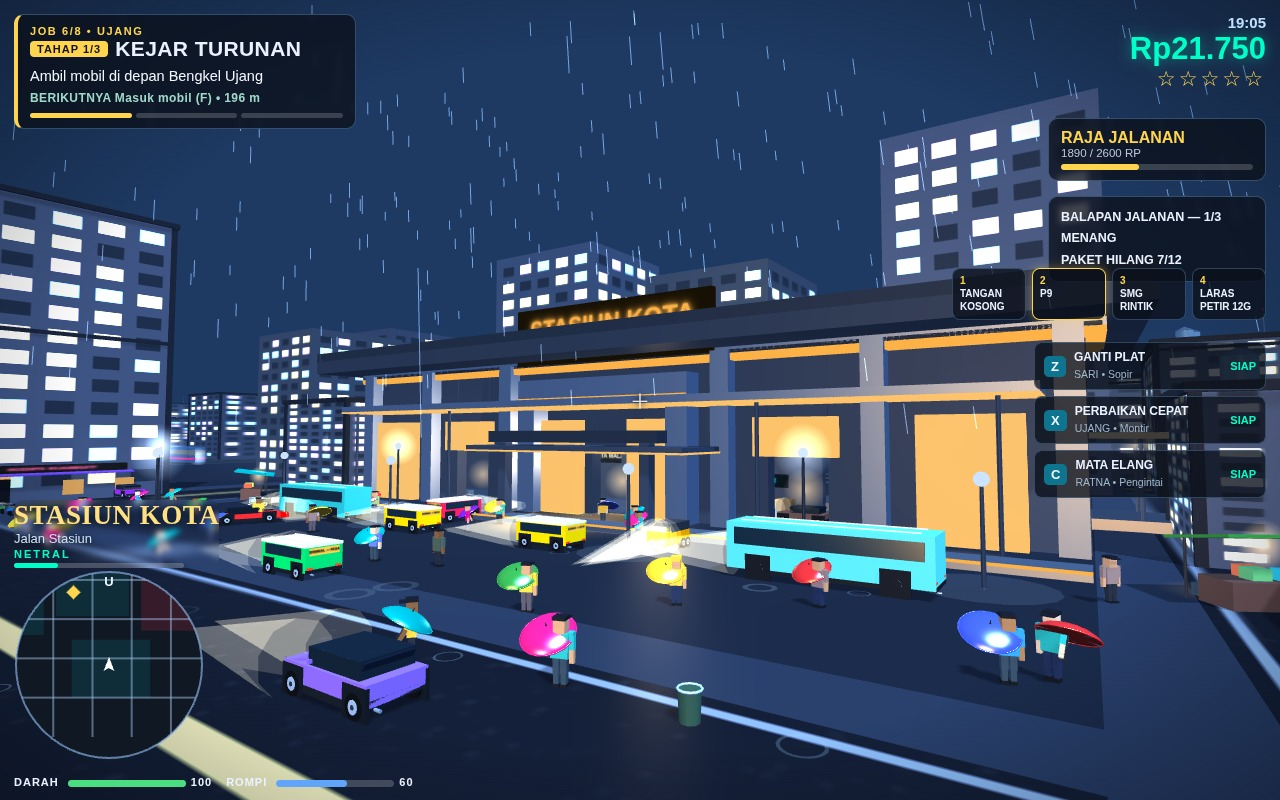
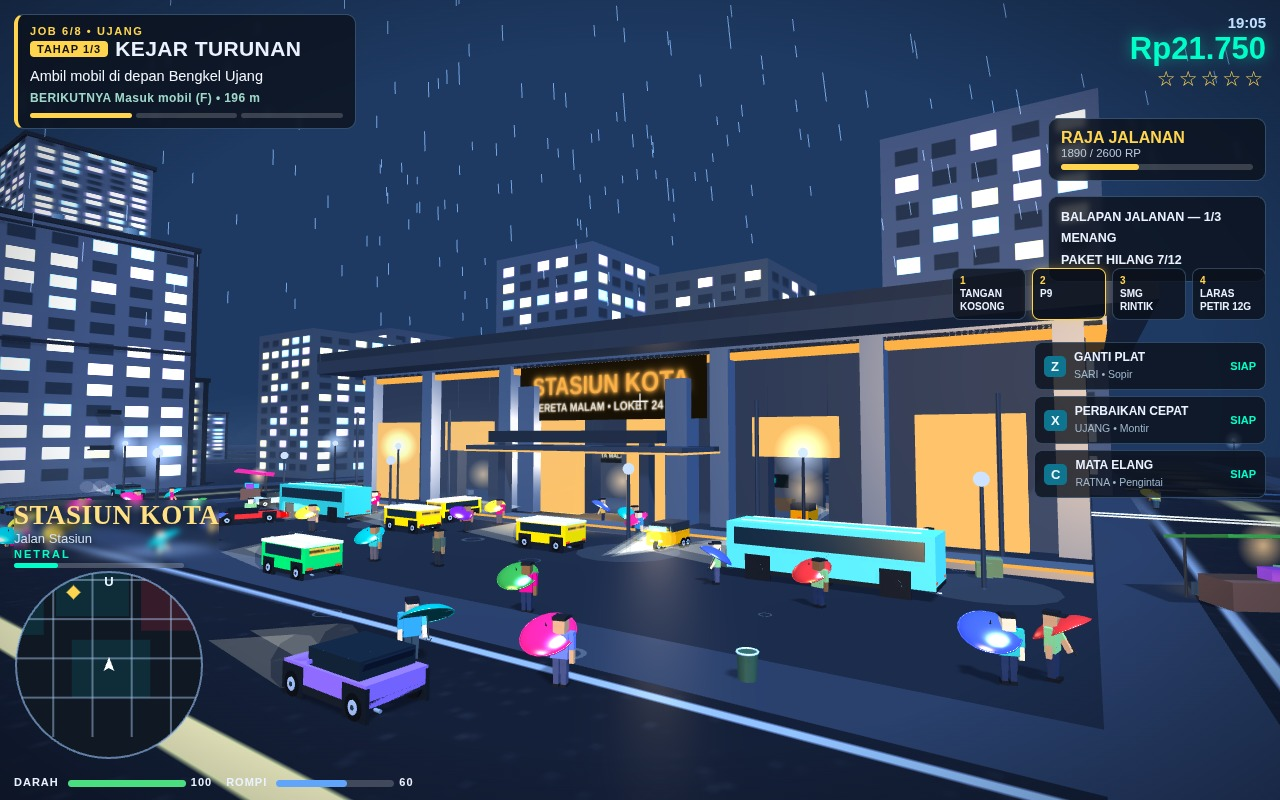
cover re-capture on the final world
Vista frame=g on HEAD 97c405f: the game's own facade-band STASIUN KOTA
sign (b2263e1) is now the cover's station sign. Removed the frame-g
staging elements that fought it — the old roofline sign twin (a
parapet-clipped duplicate), the portal lintel (sat exactly over the
sign's title) and the staging canopy (hid the sub-line from this low
camera). Same case, same camera, same skyline/forecourt dressing.
1-cover.jpg re-shot + PIL q92 re-encode in-session: 236,313 B.

diff --git a/game/src/shots.js b/game/src/shots.js
@@ -320,27 +320,10 @@ export function installStaging(api) {
           else if (o.isHemisphereLight) { o.color.set(0x51749f); o.groundColor.set(0x141c2a); o.intensity = 0.9; }
           else if (o.isDirectionalLight) { o.color.set(0xa8c8f0); o.intensity = 0.75; }
         });
-        // Sign twin, same recipe as f: the game's own board faces
-        // the platform and reads mirrored from the street.
-        const signCv = document.createElement('canvas'); signCv.width = 1024; signCv.height = 256;
-        const sctx = signCv.getContext('2d');
-        sctx.fillStyle = '#171003'; sctx.fillRect(0, 0, 1024, 256);
-        sctx.textAlign = 'center'; sctx.textBaseline = 'middle';
-        sctx.shadowColor = '#ffb347'; sctx.shadowBlur = 42;
-        sctx.fillStyle = '#ffb347';
-        sctx.font = '900 118px Arial, sans-serif';
-        sctx.fillText('STASIUN KOTA', 512, 104);
-        sctx.shadowBlur = 18; sctx.fillText('STASIUN KOTA', 512, 104);
-        sctx.font = '700 54px Arial, sans-serif';
-        sctx.fillStyle = '#eaf6ff'; sctx.shadowBlur = 10;
-        sctx.fillText('KERETA MALAM • LOKET 24 JAM', 512, 200);
-        const signTwin = new T.Mesh(
-          new T.PlaneGeometry(20, 5),
-          new T.MeshBasicMaterial({ map: new T.CanvasTexture(signCv), side: T.DoubleSide })
-        );
-        signTwin.position.set(45, 15.4, 227.15);
-        signTwin.rotation.y = Math.PI;
-        scene.add(signTwin);
+        // No sign twin in this frame anymore: the game now carries
+        // its own street-facing STASIUN KOTA board on the facade
+        // band (b2263e1). The old roofline twin only duplicated it —
+        // clipped by the parapet, masking the real sign.
         // Backdrop skyline in the game's own tower recipe (canvas
         // window grid, emissive map, downtown facade tones): a
         // packed wall of towers behind the station and flanking
@@ -394,10 +377,9 @@ export function installStaging(api) {
         cornice.position.set(45, 13.4, 232); scene.add(cornice);
         const frieze = new T.Mesh(new T.BoxGeometry(68, 0.35, 9.7), new T.MeshBasicMaterial({ color: 0xffb347 }));
         frieze.position.set(45, 12.6, 232); scene.add(frieze);
-        const canopy = new T.Mesh(new T.BoxGeometry(62, 0.55, 5.5), stone);
-        canopy.position.set(45, 9.3, 225.6); scene.add(canopy);
-        const canopyGlow = new T.Mesh(new T.BoxGeometry(62, 0.16, 5.5), new T.MeshBasicMaterial({ color: 0xffc46b }));
-        canopyGlow.position.set(45, 8.95, 225.6); scene.add(canopyGlow);
+        // No staging canopy either: from this low camera its slab
+        // crossed the game's facade sign and hid the sub-line. The
+        // game's own entrance canopy carries the depth now.
         for (const px of [16, 30, 60, 74]) {
           const col = new T.Mesh(new T.CylinderGeometry(0.14, 0.14, 9, 6), stoneDark);
           col.position.set(px, 4.5, 223.4); scene.add(col);
@@ -410,10 +392,9 @@ export function installStaging(api) {
           const pcol = new T.Mesh(new T.BoxGeometry(1.9, 11, 2.1), stone);
           pcol.position.set(px, 5.5, 227.2); scene.add(pcol);
         }
-        const lintel = new T.Mesh(new T.BoxGeometry(17.3, 1.6, 2.1), stone);
-        lintel.position.set(45.5, 10.7, 227.2); scene.add(lintel);
-        const lintelGlow = new T.Mesh(new T.BoxGeometry(17.3, 0.3, 2.2), new T.MeshBasicMaterial({ color: 0xffb347 }));
-        lintelGlow.position.set(45.5, 9.75, 227.2); scene.add(lintelGlow);
+        // No portal lintel: it stood exactly over the game's own
+        // facade-band STASIUN KOTA sign (y 10.35) and hid its title
+        // from this camera. The portal columns alone frame the door.
         const apron = new T.Mesh(new T.BoxGeometry(66, 0.35, 3), new T.MeshPhongMaterial({ color: 0x39424e, shininess: 50, specular: 0x77879f }));
         apron.position.set(45, 0.18, 221.5); scene.add(apron);
         const apronLine = new T.Mesh(new T.BoxGeometry(66, 0.1, 0.4), new T.MeshBasicMaterial({ color: 0xffb347 }));
